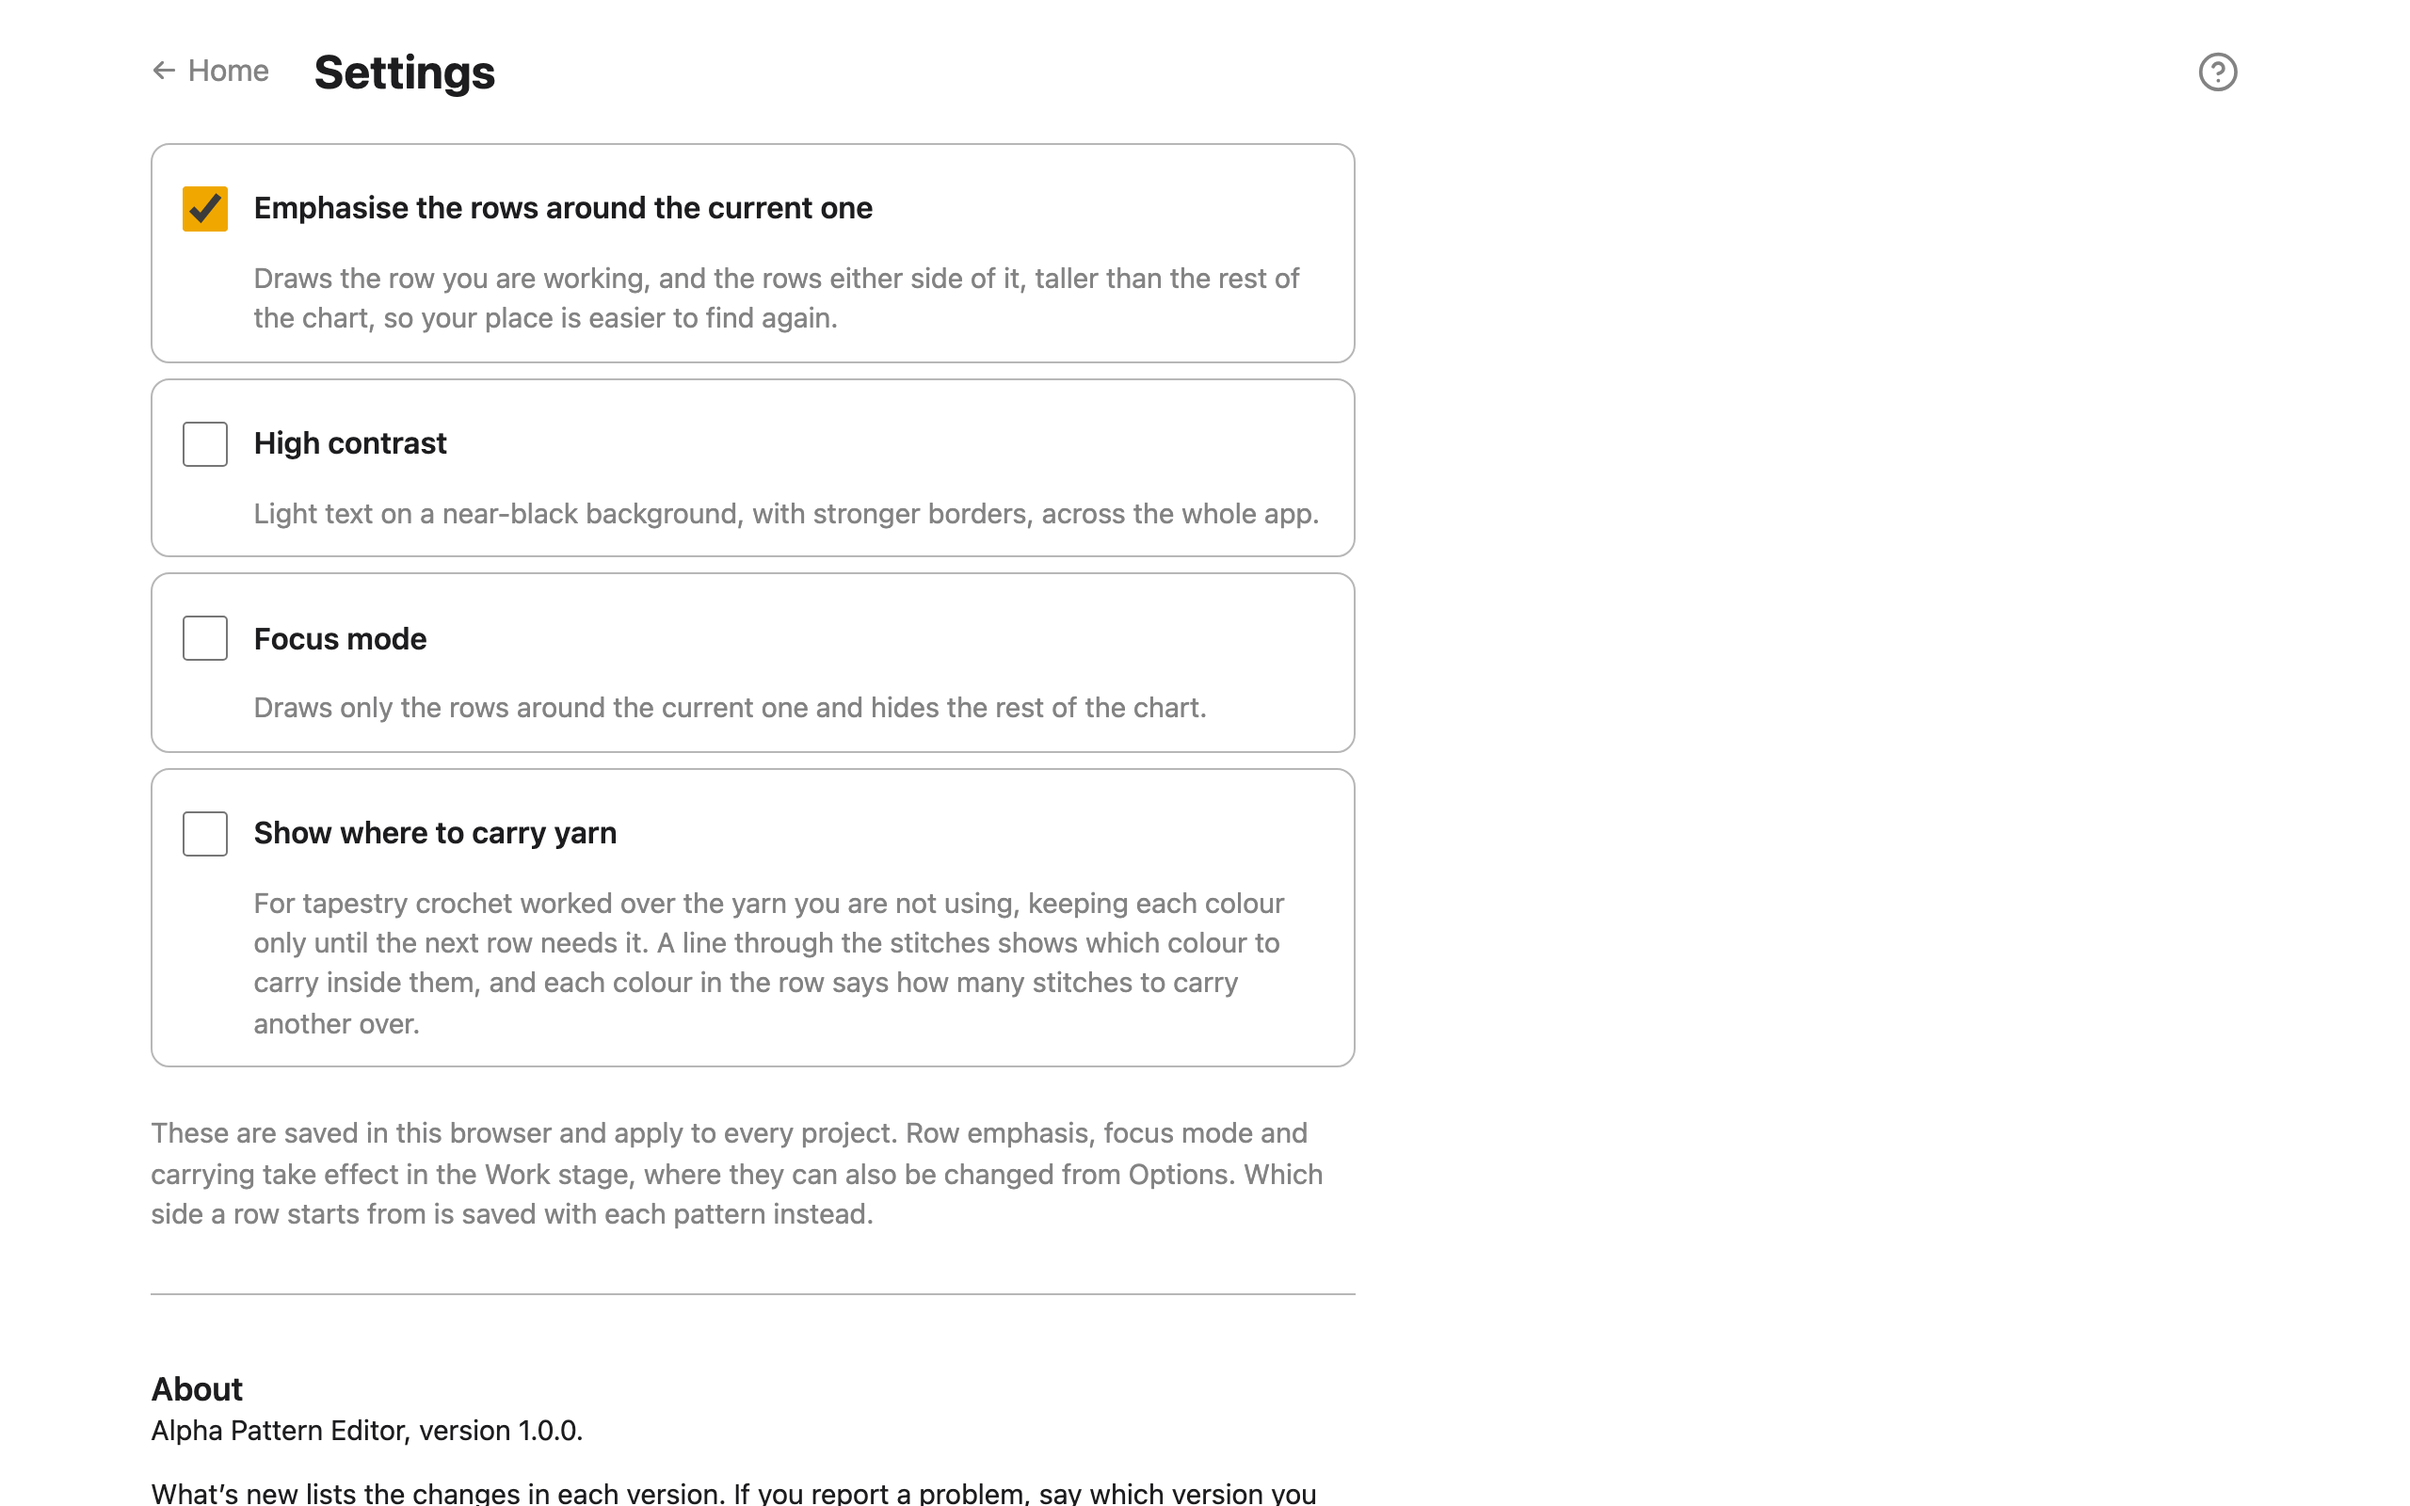
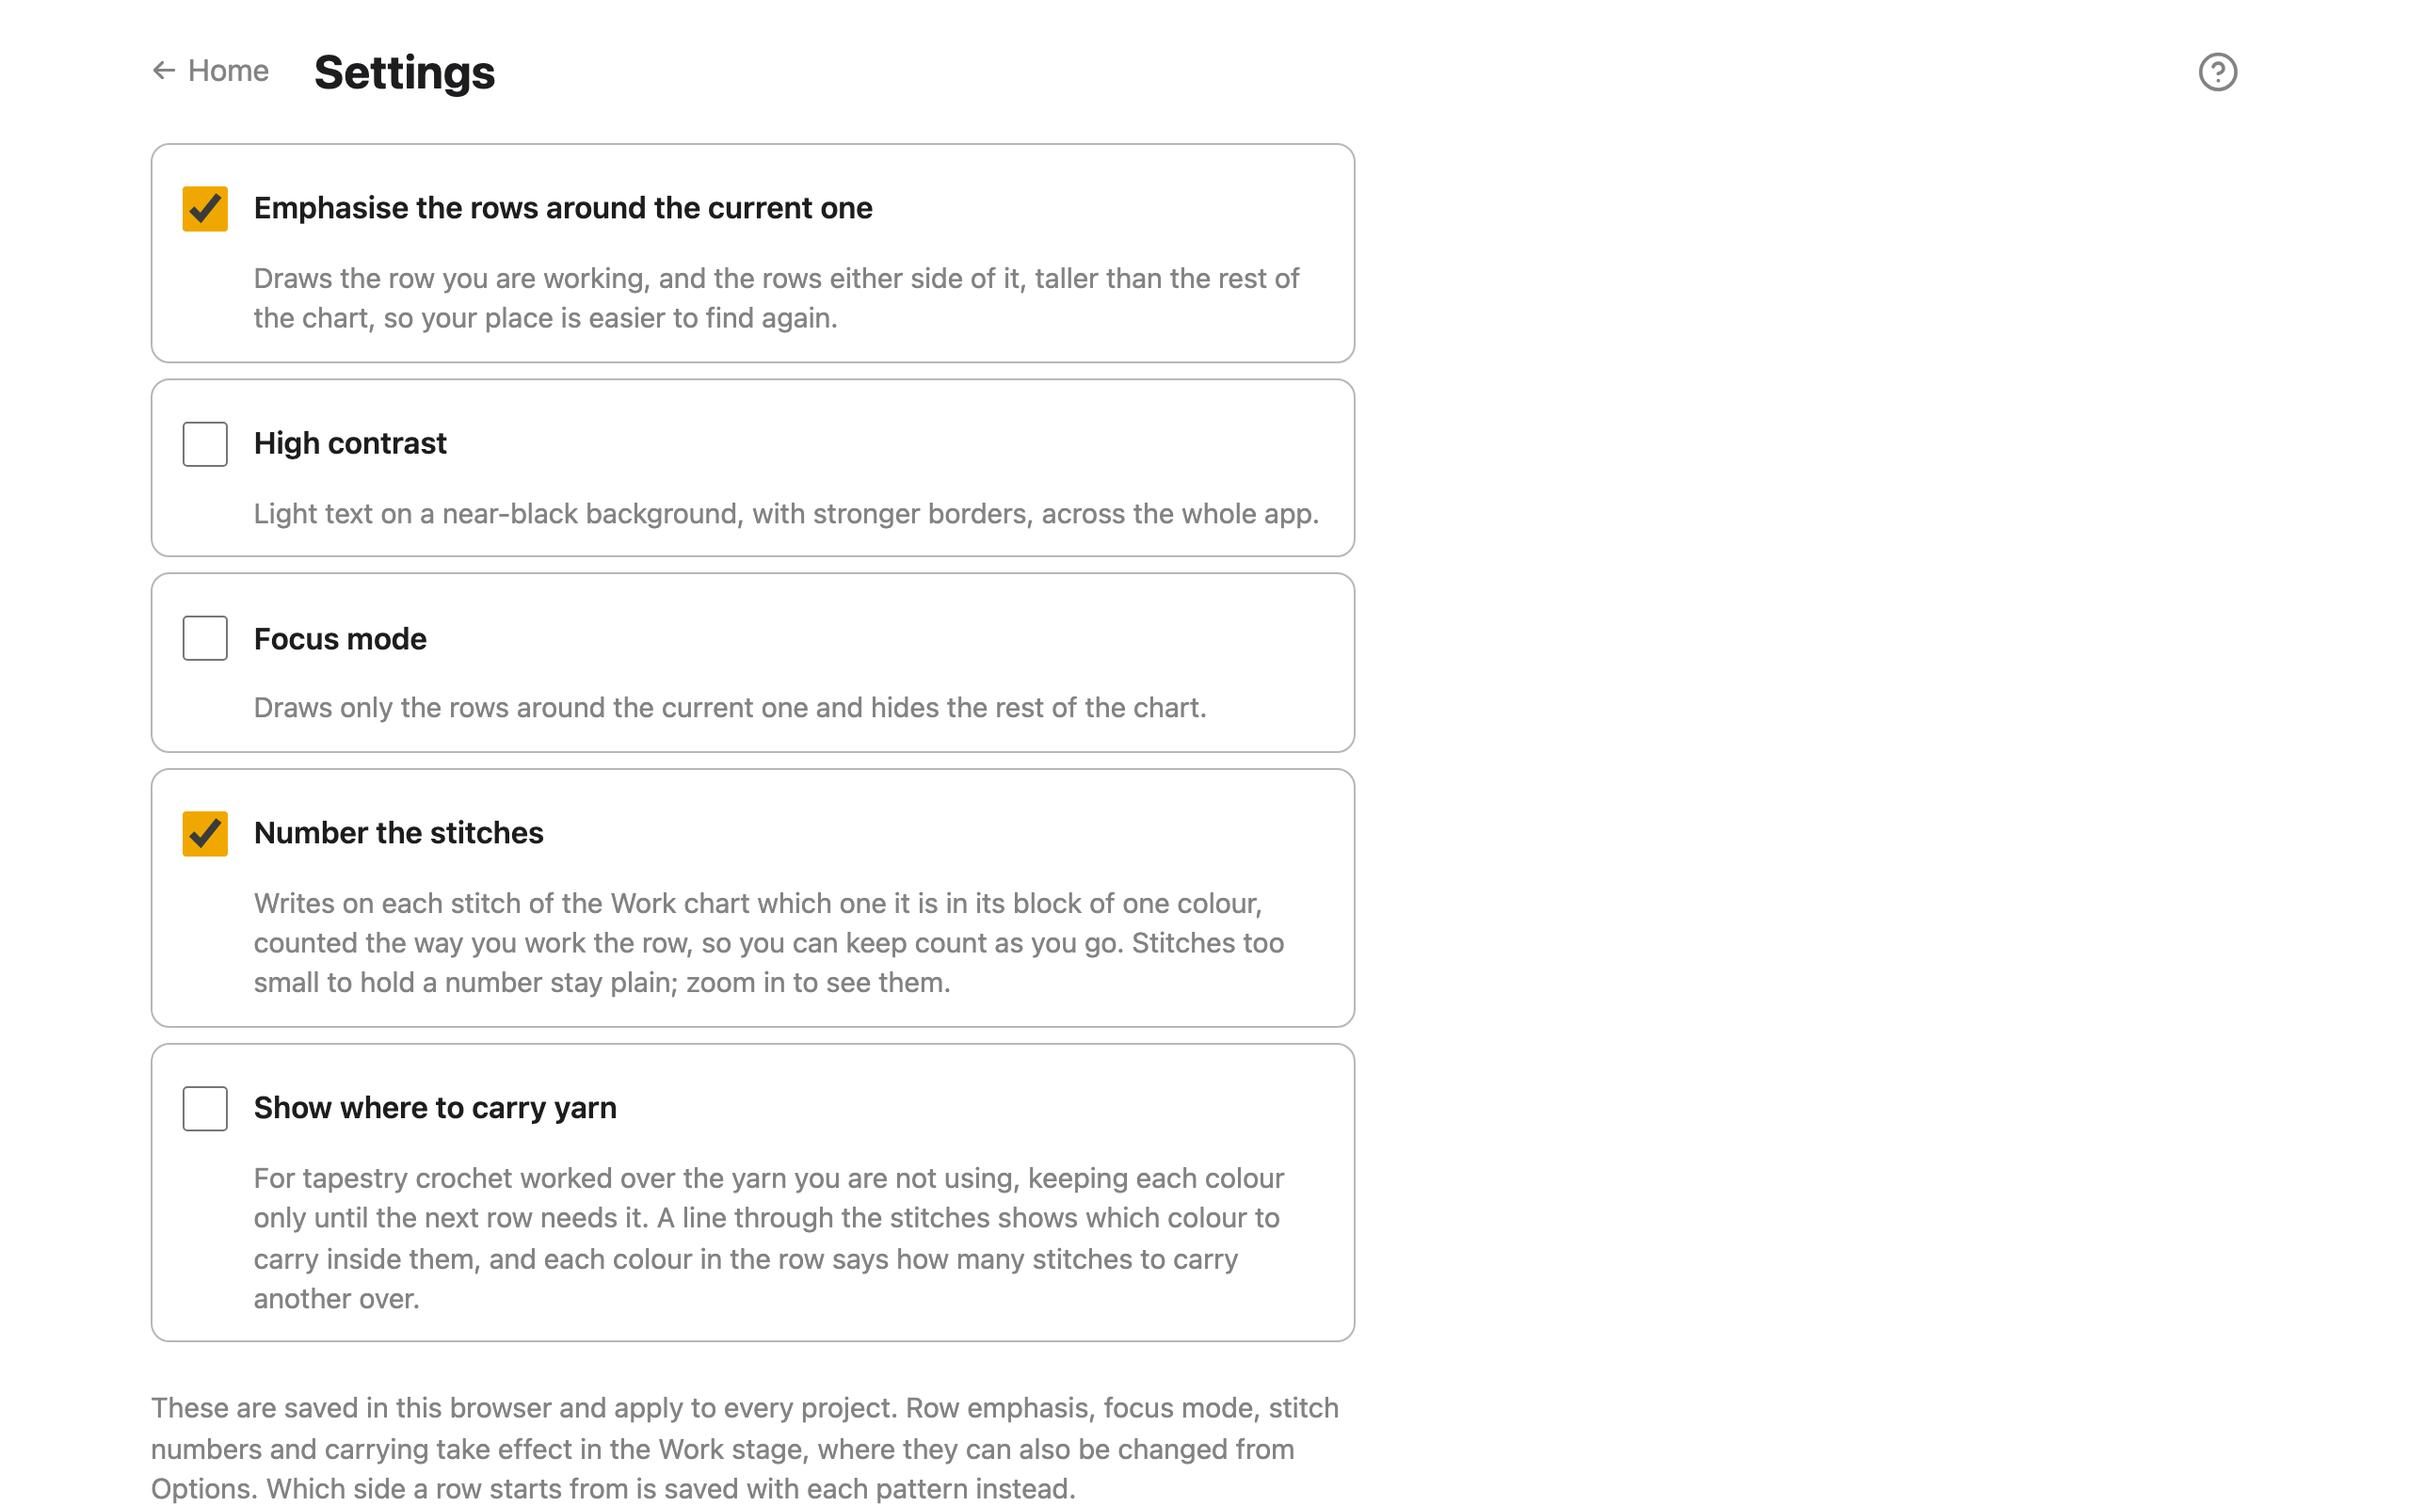
Docs: stitch numbers in the guide, Settings and the Work area note
The guide's Work and Settings screenshots are regenerated with
npm run docs:media; the Design, Import and Library shots it also rewrote
are left as they were, since nothing they show changed.

diff --git a/docs/guide/work.md b/docs/guide/work.md
@@ -20,7 +20,8 @@ you [choose another craft](#choose-your-craft).
   and so on. The colour you're on is outlined.
 - **Next:** shows the row after this one, so you can see what's coming.
 - The chart shows the whole pattern with the current row outlined and the rows you've
-  finished greyed out. A pattern more than twice as tall as it is wide fills the width
+  finished greyed out. Each stitch carries a number: see
+  [Count stitches on the chart](#count-stitches-on-the-chart). A pattern more than twice as tall as it is wide fills the width
   and scrolls down with you, keeping your row in the middle. A wide pattern fits the
   screen whole, so you see each row at once without scrolling sideways.
 
@@ -93,6 +94,19 @@ Each colour is kept only until the next row needs it, so you never carry more th
 must. On the chart, a line of a colour through a run of stitches means: carry that colour
 inside those stitches. In **This row**, a colour's chip says what to do while you work it,
 such as "carry Beige over the first 1", or "pick up Black, carry over the last 3".
+
+## Count stitches on the chart
+
+Each stitch on the chart has a number: which one it is in its block of one colour,
+counted the way you work the row. In a row worked right to left that reads "1 Red, 8
+Blue…", the red stitch at the right is 1, and the blue ones next to it are 1 to 8, from
+right to left. The count starts again at 1 with each new block, so a glance at the chart
+tells you how far into a block you are.
+
+Stitches too small to hold a number stay plain: a big pattern on a phone may show
+numbers only on the taller rows around your place, or none until you zoom in. To hide
+the numbers, untick **Number the stitches** in **Options** (or in
+[Settings](settings.md)).
 
 ## Zoom and scroll on a phone
 

diff --git a/docs/dev/areas/work.md b/docs/dev/areas/work.md
@@ -65,6 +65,19 @@ Newest last, as they were built.
   and Design filled the window. Now it has no cap, like them, and the chart can use the
   extra width.
 
+- <a id="stitch-numbers"></a>**Stitch numbers** (`render/chart.ts`, `stitchNumbers`;
+  "Number the stitches" in Options and Settings, **on** by default, app-wide in
+  `settings.stitchNumbers`). Every stitch on the chart shows its place in its run of one
+  colour, counted in the row's working direction (`encodeRow` and `rowDirection`, so it
+  agrees with the chips), from 1 at the start of each run. Skipped cells get none.
+  - Drawn per frame for the visible cells, over the strands and under the done wash, in
+    black or white by `contrastOn` of the stitch's colour. A number in a stitch a strand
+    is carried in is outlined in the other one, or a white strand hides a white numeral.
+  - One font size per row, set by its longest number (so a 10 isn't smaller than the 9
+    beside it), at most 16 px; under `NUMBER_MIN_FONT` (8 px) the cell stays plain, so a
+    big chart shows numbers only on its taller rows, or once zoomed in.
+  - Not in the Python: the desktop never showed it, and it only reads the pattern.
+
 ## During the port
 
 What each phase of the port built here, newest first. The plan each phase followed is in

diff --git a/docs/guide/settings.md b/docs/guide/settings.md
@@ -1,10 +1,10 @@
 # Settings
 
 Settings are display preferences for the whole app. Open them from **Settings** on the
-home screen. They're saved in this browser and apply to every project. All four also appear in the
+home screen. They're saved in this browser and apply to every project. All five also appear in the
 Work stage's **Options**, so you can change them without leaving your pattern.
 
-<img src="media/settings.png" alt="The Settings screen: four switches, each with a line saying what it does, and About underneath" width="700">
+<img src="media/settings.png" alt="The Settings screen: five switches, each with a line saying what it does, and About underneath" width="700">
 
 ## Make the current row easier to find
 
@@ -19,6 +19,12 @@ Work stage's **Options**, so you can change them without leaving your pattern.
 
 **High contrast** uses light text on a near-black background, with stronger borders,
 across the whole app.
+
+## Number the stitches
+
+**Number the stitches** writes on each stitch of the Work chart which one it is in its
+block of one colour, counted the way you work the row. It's on to start with. See
+[Count stitches on the chart](work.md#count-stitches-on-the-chart).
 
 ## Show where to carry yarn
 
